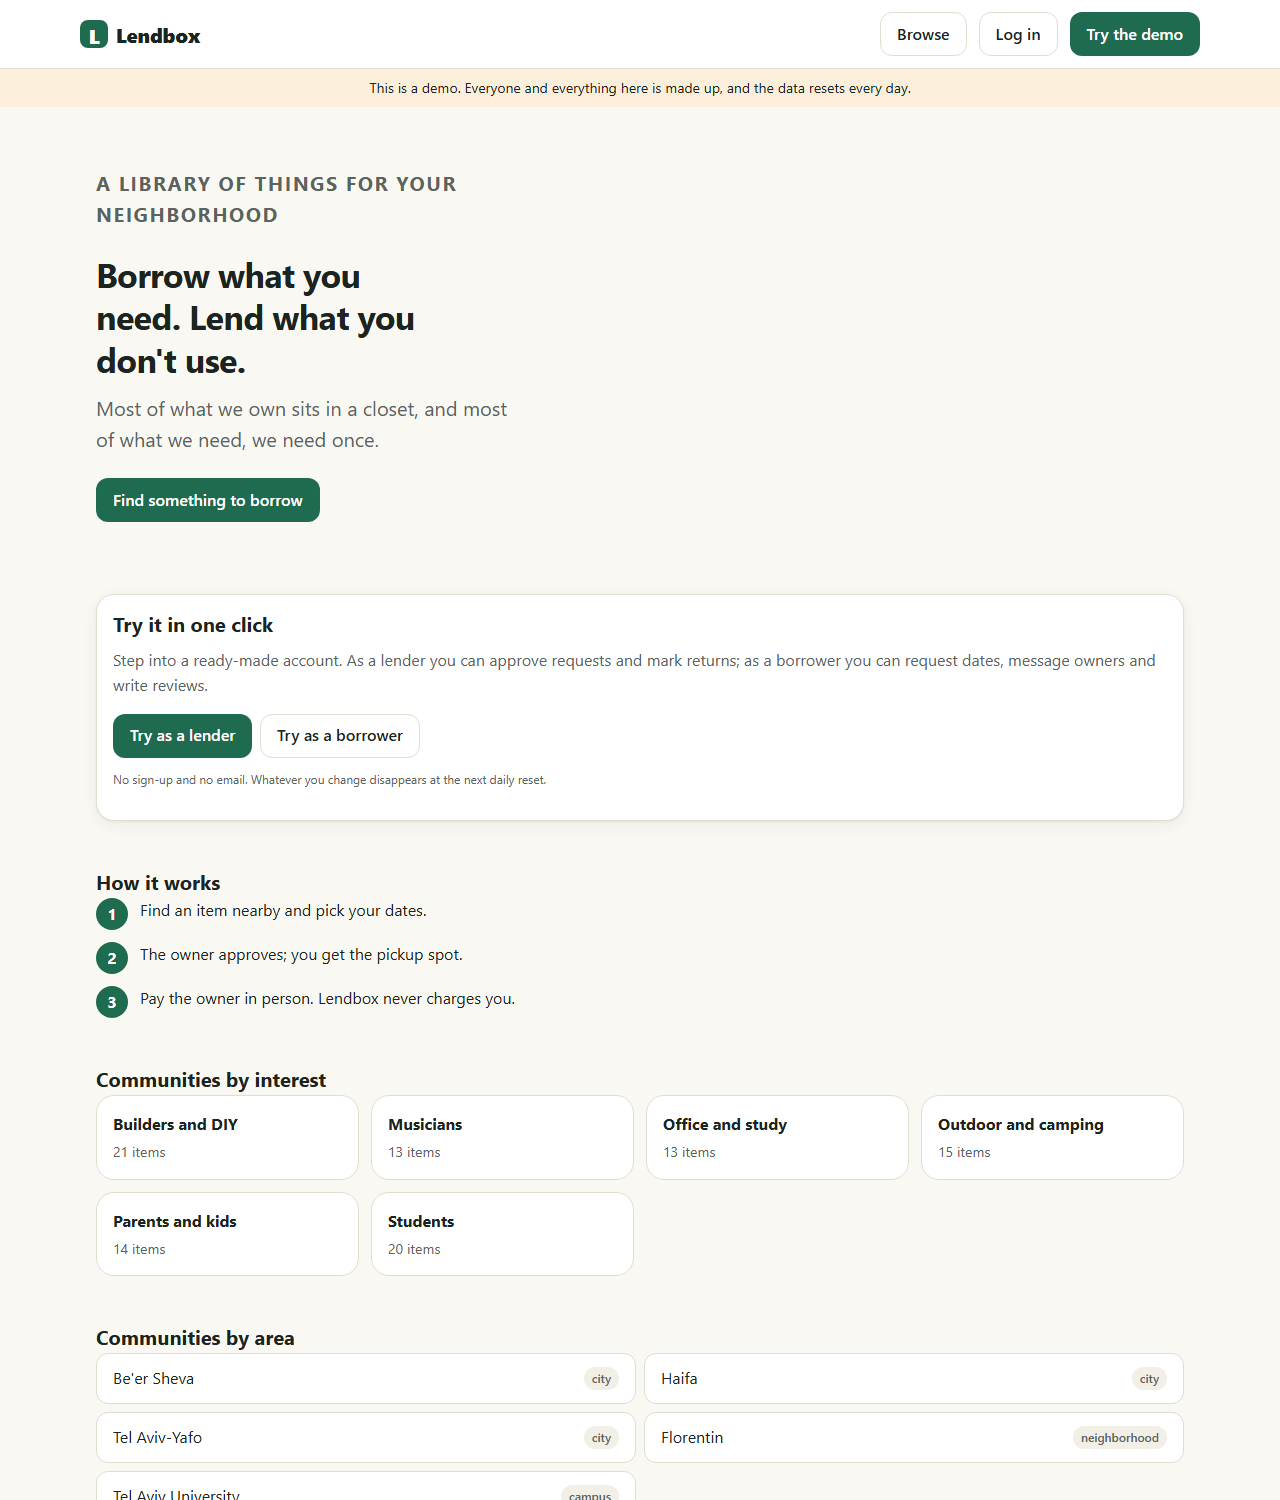
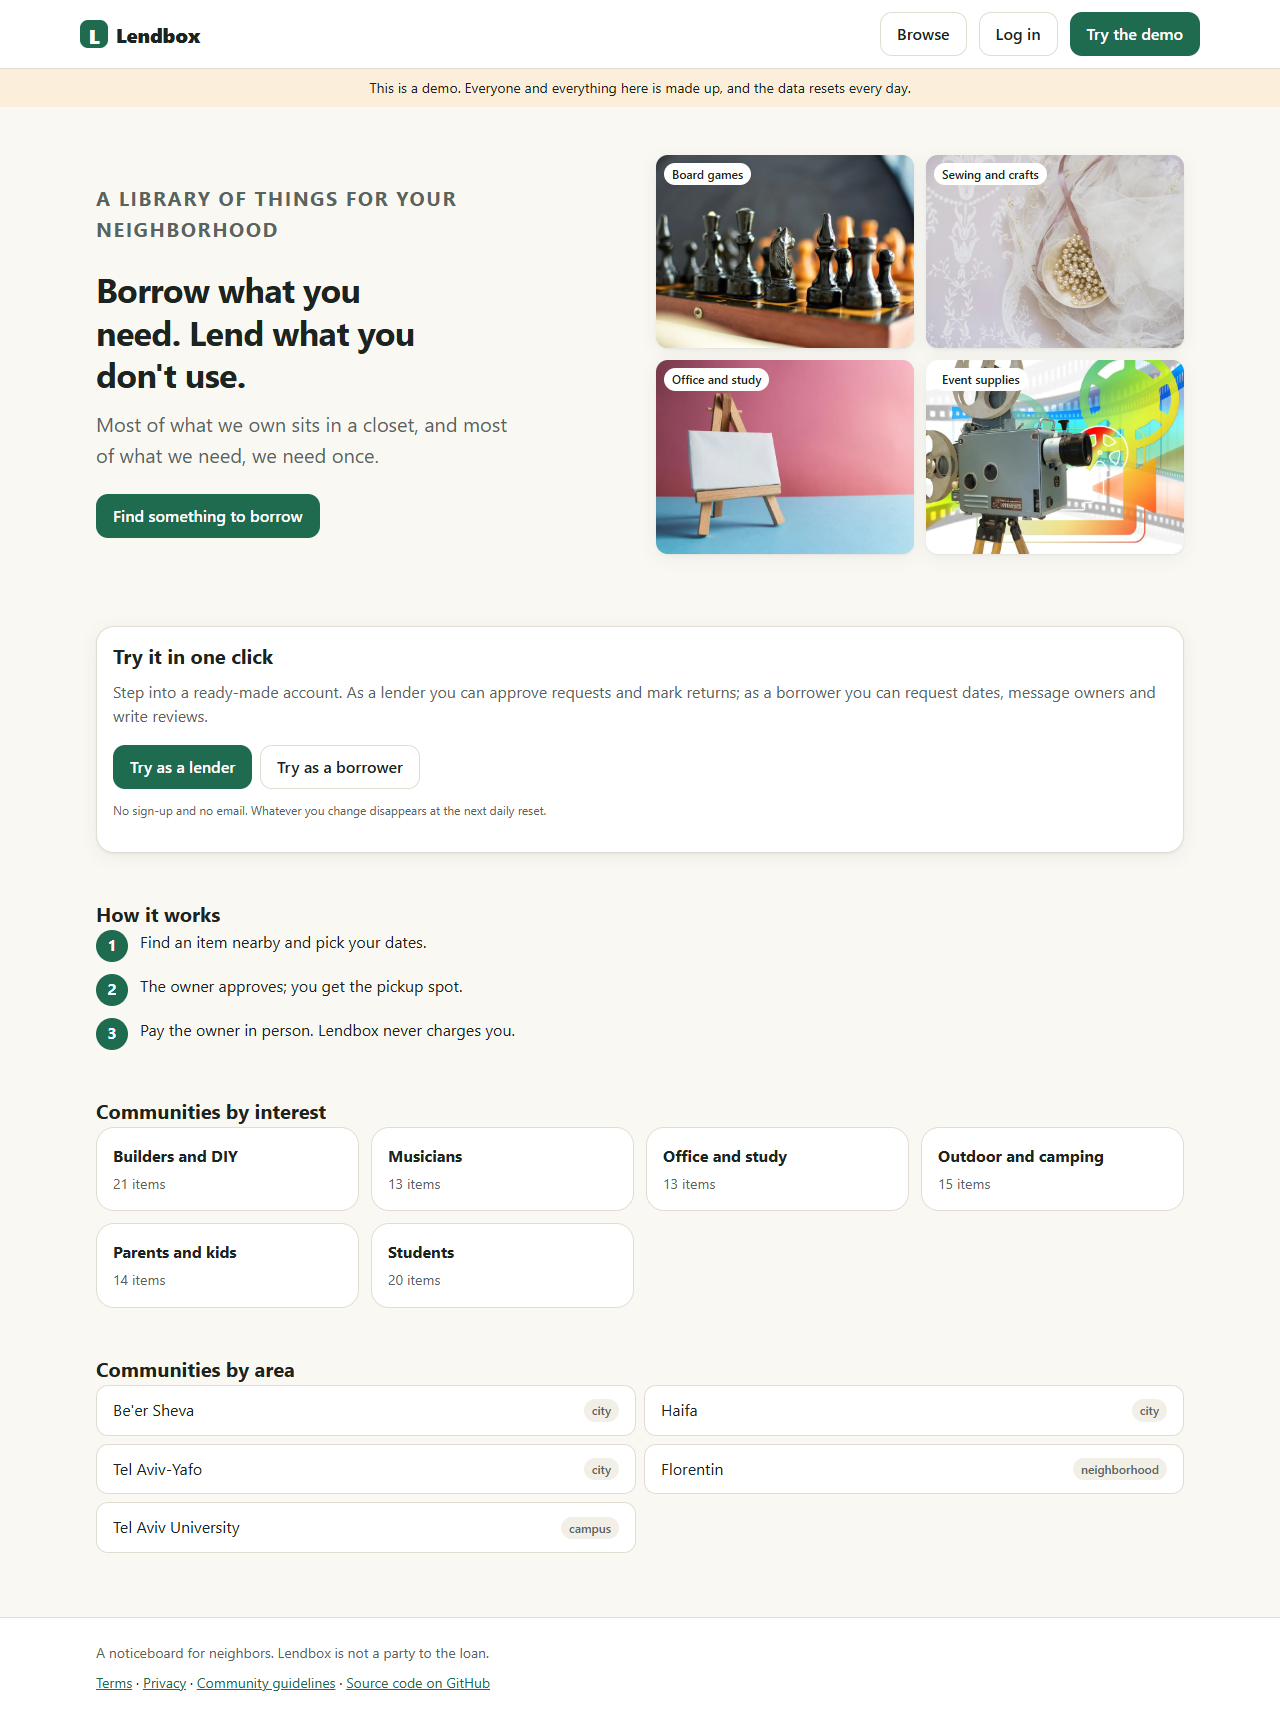
Photos on the home page's first screen
The landing page had no image at all. It now shows up to four listings
with photos beside the headline (under it on a phone): the newest listing
of each category, so the first screen shows how different the things on
offer are. With no photos in the database the page looks as before.

diff --git a/lendbox/web/templates/home.html b/lendbox/web/templates/home.html
@@ -1,11 +1,20 @@
 {% extends "base.html" %}
 {% block title %}{{ t("meta.title") }}{% endblock %}
 {% block content %}
-<section class="hero">
-  <p class="eyebrow">{{ t("home.eyebrow") }}</p>
-  <h1>{{ t("home.title") }}</h1>
-  <p>{{ t("home.lead") }}</p>
-  <a class="btn btn-primary" href="/browse">{{ t("home.cta.find") }}</a>
+<section class="hero{% if featured %} has-photos{% endif %}">
+  <div>
+    <p class="eyebrow">{{ t("home.eyebrow") }}</p>
+    <h1>{{ t("home.title") }}</h1>
+    <p>{{ t("home.lead") }}</p>
+    <a class="btn btn-primary" href="/browse">{{ t("home.cta.find") }}</a>
+  </div>
+  {% if featured %}
+  <div class="hero-photos" role="group" aria-label="{{ t("home.featured") }}">
+    {% for item in featured %}
+    <a class="tile t-tools" href="/items/{{ item.id }}"><img src="/static/{{ item.photo }}" alt="{{ item.title }}" width="800" height="600"><span class="badge">{{ item.category_name }}</span></a>
+    {% endfor %}
+  </div>
+  {% endif %}
 </section>
 {% if demo %}
 <section id="demo" class="card pad stack section">

diff --git a/lendbox/web/static/app.css b/lendbox/web/static/app.css
@@ -128,6 +128,12 @@ textarea.input{min-block-size:88px;resize:vertical}
 .hero h1{font-size:var(--fs-2xl);letter-spacing:-0.02em;max-width:18ch}
 .hero p{font-size:var(--fs-lg);color:var(--text-muted);max-width:40ch;margin-block:var(--s-3) var(--s-5)}
 .eyebrow{font-size:var(--fs-xs);font-weight:700;letter-spacing:.08em;text-transform:uppercase;color:var(--primary)}
+.hero-photos{display:grid;grid-template-columns:repeat(2,minmax(0,1fr));gap:var(--s-3);margin-block-start:var(--s-5)}
+.hero-photos .tile{box-shadow:var(--shadow)}
+@media (min-width:900px){
+  .hero.has-photos{display:grid;grid-template-columns:1fr 1fr;gap:var(--s-6);align-items:center}
+  .hero-photos{margin-block-start:0}
+}
 .need{display:grid;gap:var(--s-3);grid-template-columns:1fr}
 .need .card b{display:block;font-size:var(--fs-lg);margin-block-end:var(--s-1)}
 .steps3{display:grid;gap:var(--s-3);counter-reset:st;padding:0;margin:0}

diff --git a/lendbox/web/app.py b/lendbox/web/app.py
@@ -296,6 +296,20 @@ def healthz(conn: Conn) -> dict:
     return {"ok": True, "migrations": [r["name"] for r in rows]}
 
 
+def pick_featured(found: list[dict], count: int = 4) -> list[dict]:
+    """A few listings with photos for the home page, at most one per category, so the first screen shows how
+    different the things on offer are. Keeps the order it was given (newest first)."""
+    picked: list[dict] = []
+    seen: set[str] = set()
+    for item in found:
+        if item["photo"] and item["category_slug"] not in seen:
+            seen.add(item["category_slug"])
+            picked.append(item)
+            if len(picked) == count:
+                break
+    return picked
+
+
 @app.get("/", response_class=HTMLResponse)
 def home(request: Request, conn: Conn, user: User):
     comms = repo.communities(conn)
@@ -303,6 +317,7 @@ def home(request: Request, conn: Conn, user: User):
         request,
         "home.html",
         user,
+        featured=pick_featured(repo.search_listings(conn, limit=24)),
         interests=[c for c in comms if c["kind"] == "interest"],
         areas=[c for c in comms if c["kind"] == "area" and c["area_level"] != "country"],
     )

diff --git a/tests/test_home_photos.py b/tests/test_home_photos.py
@@ -1,0 +1,20 @@
+"""Choosing the photos for the home page. A pure rule: no database needed."""
+
+from __future__ import annotations
+
+from lendbox.web import app as web
+
+
+def listing(i: int, category: str, photo: bool = True) -> dict:
+    return {"id": i, "category_slug": category, "photo": f"listings/l{i:03d}.webp" if photo else None}
+
+
+def test_home_photos_show_one_listing_per_category_newest_first():
+    found = [listing(9, "tools"), listing(8, "tools"), listing(7, "music"), listing(6, "camping", photo=False),
+             listing(5, "camping"), listing(4, "games"), listing(3, "kitchen")]
+    assert [item["id"] for item in web.pick_featured(found)] == [9, 7, 5, 4]
+
+
+def test_home_photos_can_be_fewer_than_four():
+    assert web.pick_featured([listing(2, "tools"), listing(1, "tools")]) == [listing(2, "tools")]
+    assert web.pick_featured([]) == []

diff --git a/tests/db/test_web_flow.py b/tests/db/test_web_flow.py
@@ -68,6 +68,16 @@ def test_every_page_carries_a_link_preview(client, world):
         assert r.status_code == 200 and r.headers["content-type"].startswith(kind), name
 
 
+def test_home_shows_photos_of_listed_items(client, conn, world):
+    assert 'class="hero-photos"' not in client.get("/").text  # nothing has a photo yet: the plain headline
+    conn.execute(
+        "INSERT INTO listing_photos (listing_id, path, position) VALUES (%s, 'listings/l001.webp', 0)", (world.listing,)
+    )
+    home = client.get("/").text
+    assert 'class="hero-photos"' in home
+    assert f'href="/items/{world.listing}"><img src="/static/listings/l001.webp"' in home
+
+
 def test_full_borrowing_flow(client, conn, world):
     sign_up_and_verify(client, conn, "ron@example.test")
     assert log_in(client, "ron@example.test").headers["location"] == "/browse"

diff --git a/README.md b/README.md
@@ -48,7 +48,7 @@ flowchart LR
 
 - **Python 3.12, FastAPI, server-rendered Jinja** (no JavaScript framework), **PostgreSQL 16** through psycopg 3 with plain SQL and numbered migrations (no ORM, so the constraints stay visible).
 - **Domain layer is pure** (no I/O): the booking state machine, prices in integer agorot, half-open date ranges. 220 table-driven tests cover every state, event and actor.
-- **434 tests**, all against a real PostgreSQL (never SQLite), run in GitHub Actions with ruff.
+- **465 tests**, the database ones against a real PostgreSQL (never SQLite), run in GitHub Actions with ruff.
 - **Accessible and RTL-ready**: logical CSS properties, labelled fields, errors announced to screen readers; every user-facing string sits in one catalog so Hebrew is a translation, not a rewrite.
 
 ## Run it locally
